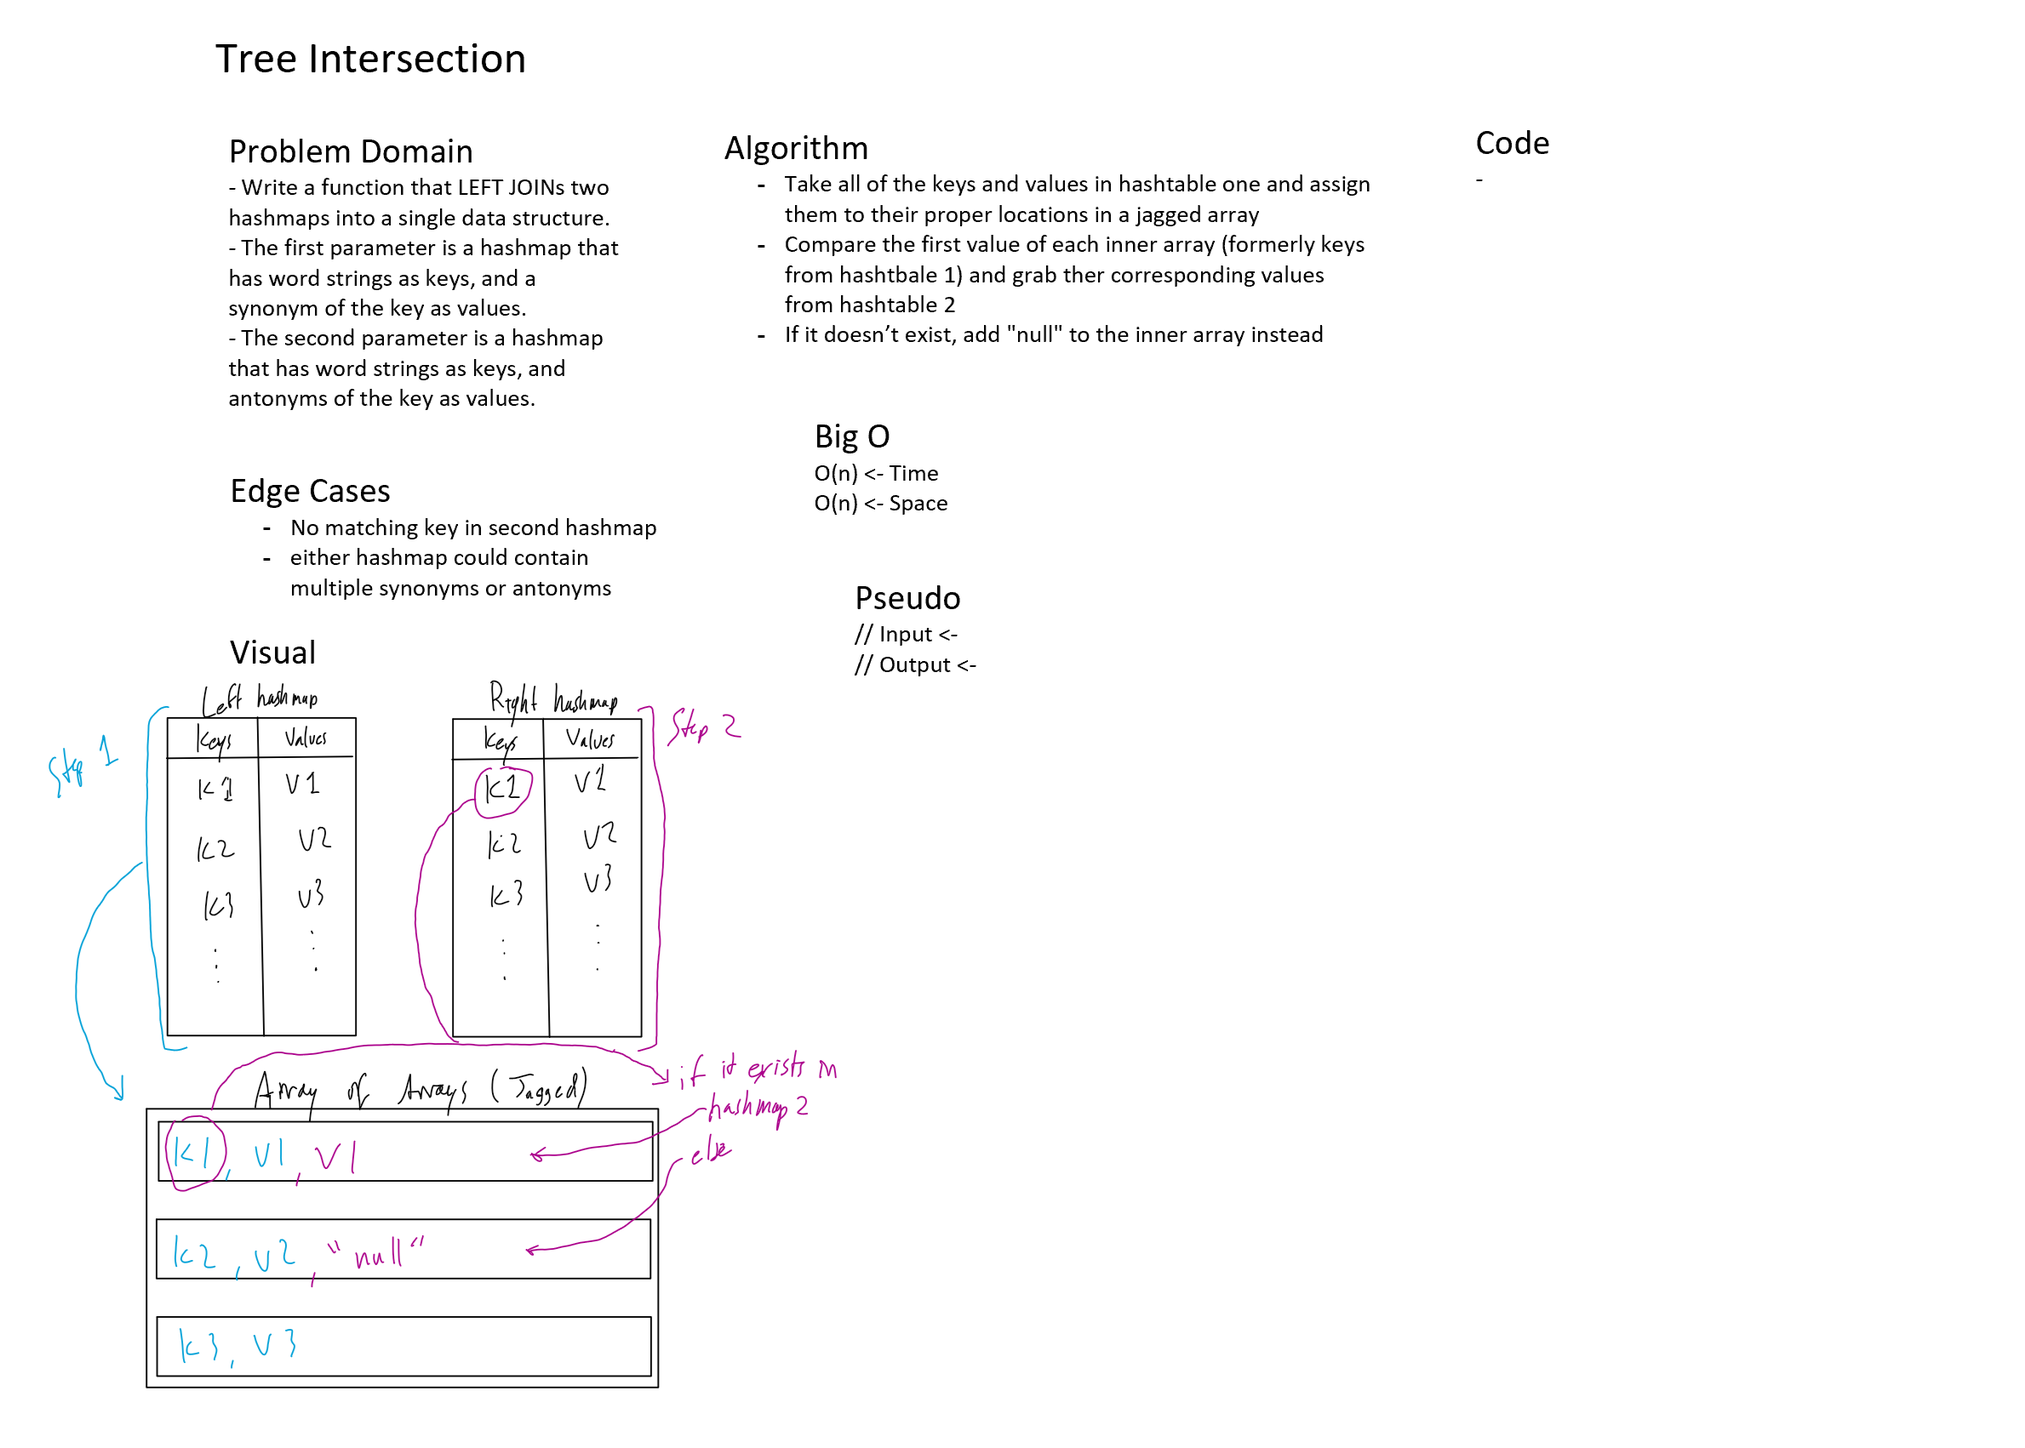
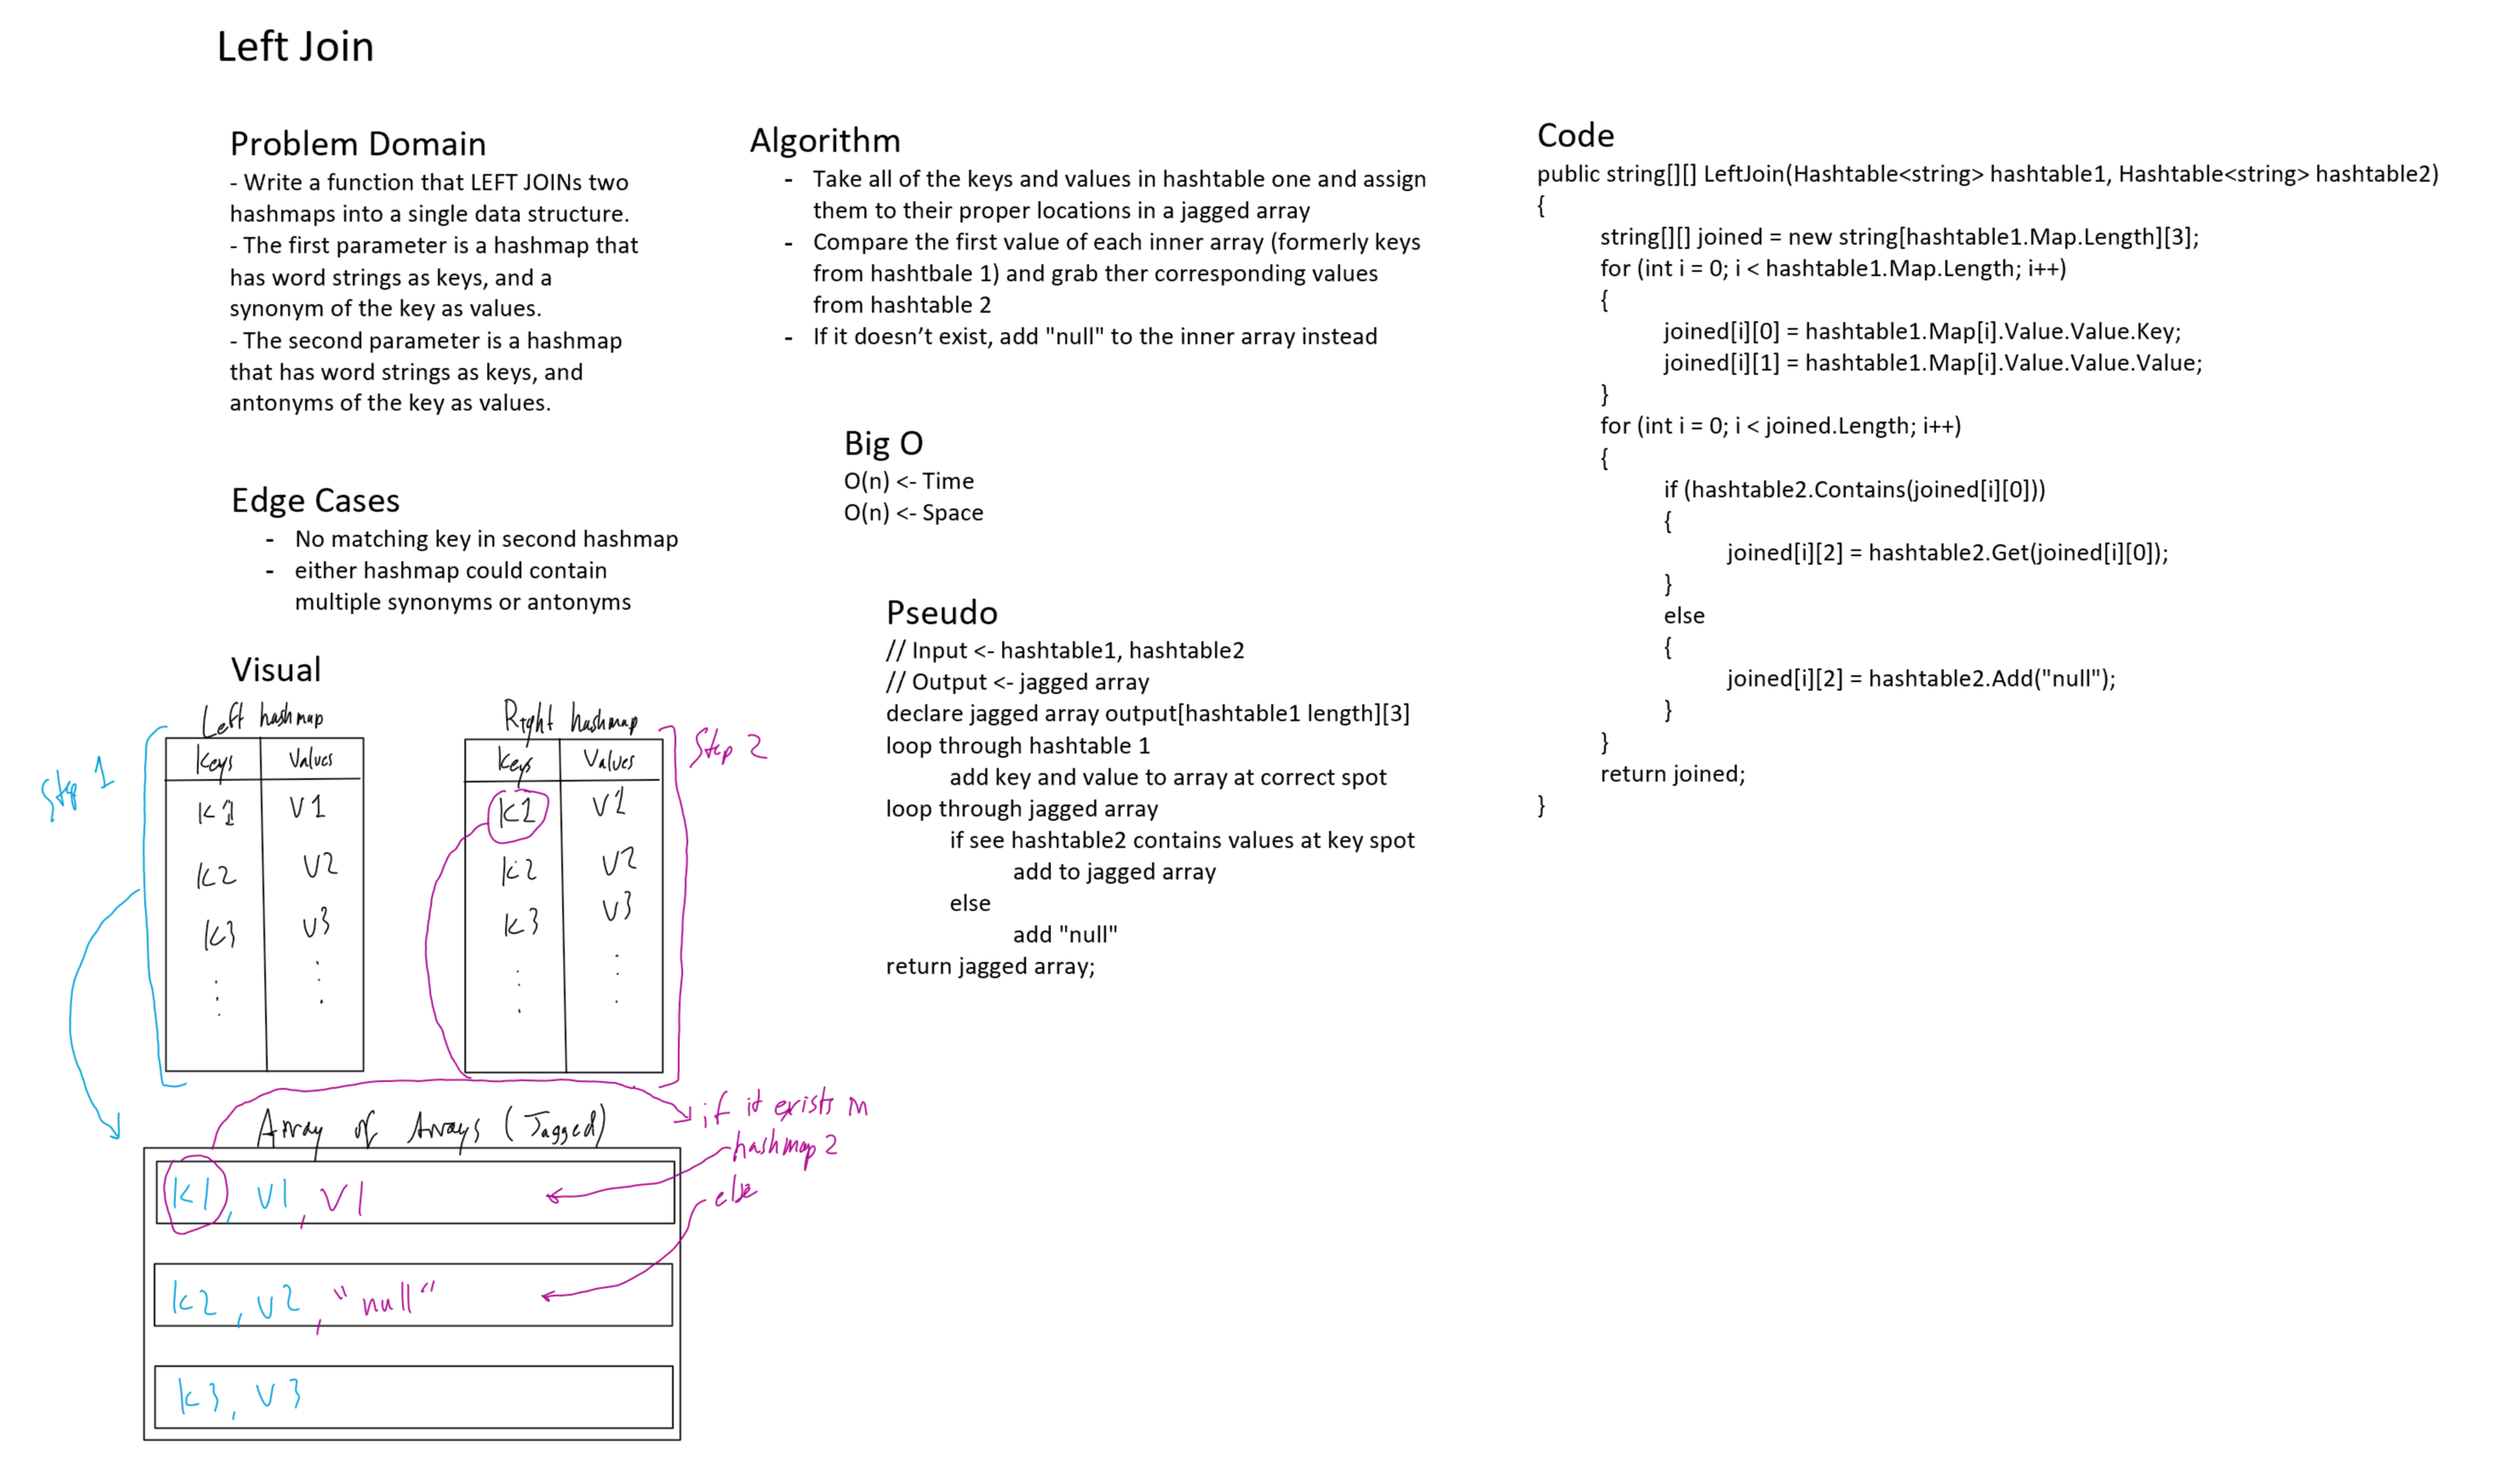
added code implementation and testing

diff --git a/C-Sharp/Code Challenges/LeftJoin/LeftJoin/LeftJoinTests/UnitTest1.cs b/C-Sharp/Code Challenges/LeftJoin/LeftJoin/LeftJoinTests/UnitTest1.cs
@@ -1,0 +1,86 @@
+using Xunit;
+using static LeftJoin.LeftJoin;
+using System.Collections.Generic;
+
+namespace LeftJoinTests
+{
+    public class UnitTest1
+    {
+        [Fact]
+        public void JoinWorks()
+        {
+            // Assign
+            Dictionary<string, string> synonyms = new Dictionary<string, string>();
+            Dictionary<string, string> antonyms = new Dictionary<string, string>();
+            synonyms.Add("Happy", "Joyful");
+            antonyms.Add("Happy", "Sad");
+            // Act
+            var expected = new string[][]
+            {
+                new string[] { "Happy", "Joyful", "Sad" }
+            };
+            var actual = Join(synonyms, antonyms);
+            // Assert
+            Assert.Equal(expected, actual);
+        }
+
+        [Fact]
+        public void JoinWorksWithANullRightValue()
+        {
+            // Assign
+            Dictionary<string, string> synonyms = new Dictionary<string, string>();
+            Dictionary<string, string> antonyms = new Dictionary<string, string>();
+            synonyms.Add("Happy", "Joyful");
+            synonyms.Add("Light", "Reveal");
+            antonyms.Add("Happy", "Sad");
+            // Act
+            var expected = new string[][]
+            {
+                new string[] { "Happy", "Joyful", "Sad" },
+                new string[] { "Light", "Reveal", "null" }
+            };
+            var actual = Join(synonyms, antonyms);
+            // Assert
+            Assert.Equal(expected, actual);
+        }
+
+        [Fact]
+        public void JoinWorksWithABigGrouping()
+        {
+            // Assign
+            Dictionary<string, string> synonyms = new Dictionary<string, string>();
+            Dictionary<string, string> antonyms = new Dictionary<string, string>();
+
+            synonyms.Add("Happy", "Joyful");
+            synonyms.Add("Light", "Reveal");
+            synonyms.Add("Fond", "Enamored");
+            synonyms.Add("Wrath", "Anger");
+            synonyms.Add("Diligent", "Employed");
+            synonyms.Add("Guide", "Usher");
+            synonyms.Add("Smooth", "Frictionless");
+
+            antonyms.Add("Happy", "Sad");
+            antonyms.Add("Light", "Darken");
+            antonyms.Add("Fond", "Averse");
+            antonyms.Add("Wrath", "Delight");
+            antonyms.Add("Diligent", "Idle");
+            antonyms.Add("Guide", "Follow");
+            antonyms.Add("Smooth", "Rough");
+
+            // Act
+            var expected = new string[][]
+            {
+                new string[] { "Happy", "Joyful", "Sad" },
+                new string[] { "Light", "Reveal", "Darken" },
+                new string[] { "Fond", "Enamored", "Averse" },
+                new string[] { "Wrath", "Anger", "Delight" },
+                new string[] { "Diligent", "Employed", "Idle" },
+                new string[] { "Guide", "Usher", "Follow" },
+                new string[] { "Smooth", "Frictionless", "Rough" },
+            };
+            var actual = Join(synonyms, antonyms);
+            // Assert
+            Assert.Equal(expected, actual);
+        }
+    }
+}

diff --git a/C-Sharp/Code Challenges/LeftJoin/LeftJoin/LeftJoin/LeftJoin.cs b/C-Sharp/Code Challenges/LeftJoin/LeftJoin/LeftJoin/LeftJoin.cs
@@ -1,0 +1,37 @@
+using System.Collections;
+using System.Collections.Generic;
+
+namespace LeftJoin
+{
+    public static class LeftJoin
+    {
+        /// <summary>
+        /// Takes two hashtable in the form of Dictionary objects and returns a jagged array wherein each inner array contains the shared keys and all values.
+        /// </summary>
+        /// <param name="table1">Left Dictionary.</param>
+        /// <param name="table2">Right Dictionary.</param>
+        /// <returns>LeftJoined jagged array.</returns>
+        public static string[][] Join(Dictionary<string, string> table1, Dictionary<string, string> table2)
+        {
+            string[][] joined = new string[table1.Count][];
+            int i;
+            for (i = 0; i < joined.Length;i++)
+            {
+                joined[i] = new string[3];
+            }
+            var keys1 = table1.Keys;
+            i = 0;
+            foreach (var key in keys1)
+            {
+                joined[i][0] = key.ToString();
+                joined[i][1] = table1.TryGetValue(key, out string value) ? value : "null";
+                i++;
+            }
+            for (i = 0; i < joined.Length; i++)
+            {
+                    joined[i][2] = table2.TryGetValue(joined[i][0], out string value) ? value : "null";
+            }
+            return joined;
+        }
+    }
+}
